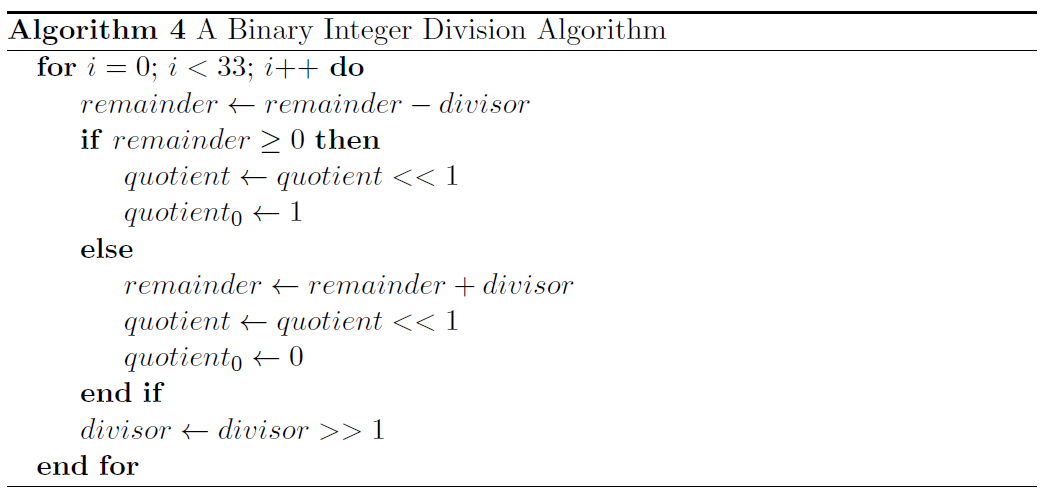
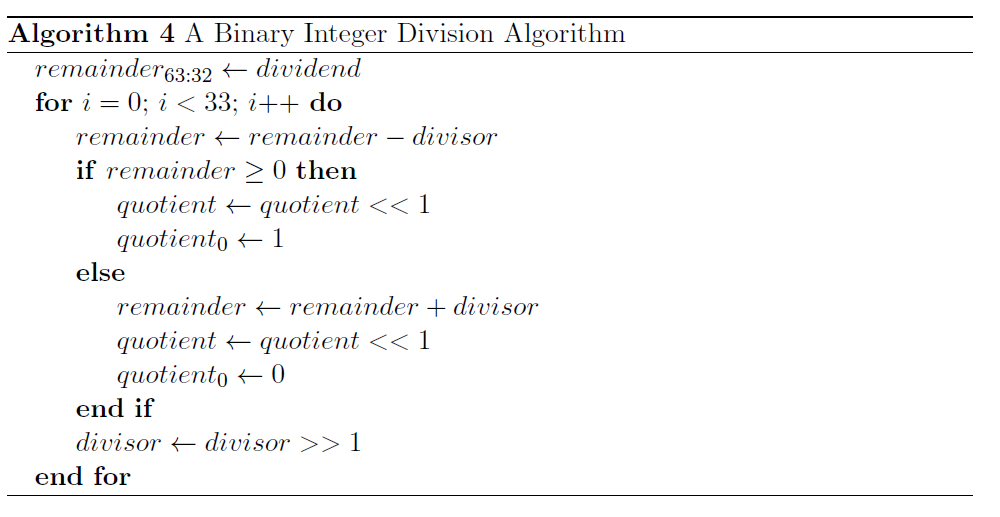
Division algorithm starts with dividend in the upper half of the remainder

Changed region(s): [[0.0, 0.0, 0.992, 0.8116], [0.0, 0.8417, 0.961, 0.9619]]

diff --git a/files/algs/muldiv.tex b/files/algs/muldiv.tex
@@ -50,7 +50,7 @@
 \State $product_{31:0} \gets multiplier$
 
 \For{$i = 0$; $i < 32$; $i{+}{+}$}
-    \If{$product_{0}$ == 1}
+    \If{$product{0}$ == 1}
         \State $product_{63:32} \gets product_{63:32} + multiplicand$    
     \EndIf
     
@@ -66,6 +66,8 @@
 \begin{algorithm}[hbt!]
 \caption{A Binary Integer Division Algorithm}\label{alg:div1}
 \begin{algorithmic}
+
+\State $remainder_{63:32} \gets dividend$
 
 \For{$i = 0$; $i < 33$; $i{+}{+}$}
     \State $remainder \gets remainder - divisor$
